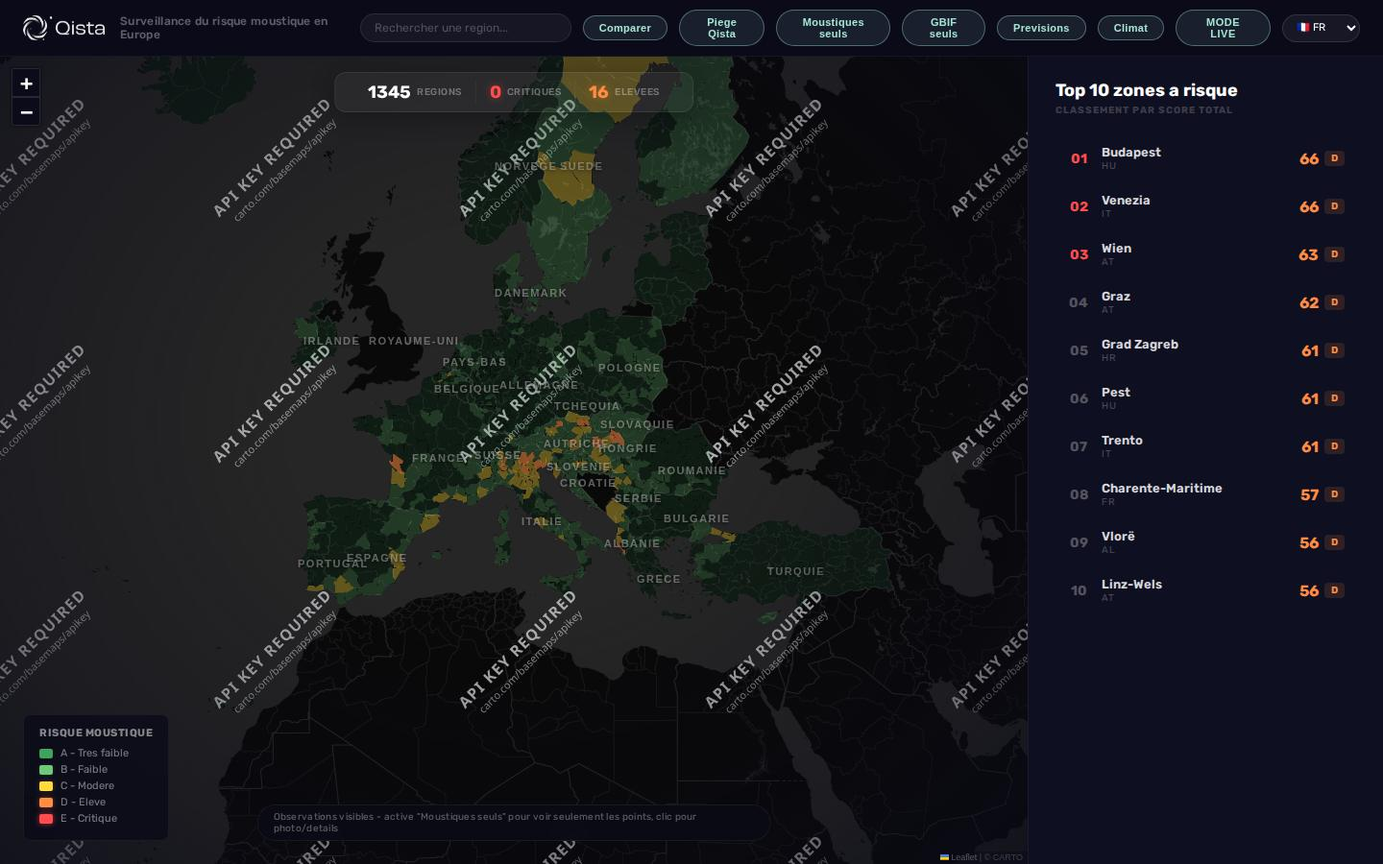
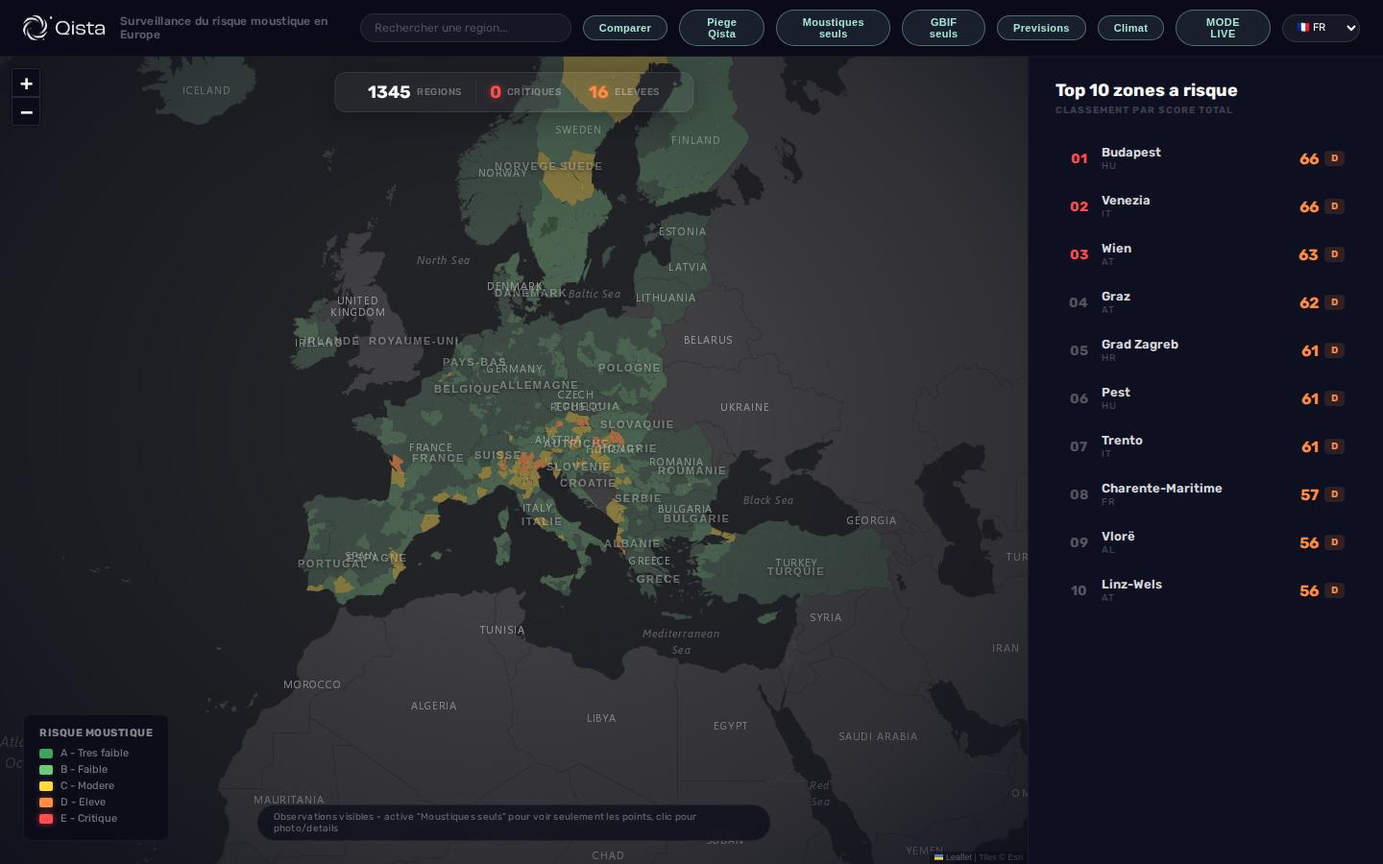
Drop availability line and 'interview' clause; clean Qista screenshot
- Remove the hero "available for work / seeking apprenticeship" line
  (element + copy, all four languages)
- CMA CGM cards (10, 11): trim the "happy to walk through it in an
  interview" tail — just "Details are confidential."
- Swap the Qista card screenshot for a clean one (keyless Esri dark
  basemap, no CARTO watermark)

diff --git a/site/src/i18n.tsx b/site/src/i18n.tsx
@@ -2,13 +2,13 @@
 import { createContext, useContext, useEffect, useState, type ReactNode } from "react";
 
 export type Language = "en" | "it" | "fr" | "es";
-type Copy = { nav: string[]; role: string; intro: string; availability: string; contactMe: string; work: string; selected: string; live: string; code: string; aboutLabel: string; about: string; contactLabel: string; letsTalk: string; blurbs: string[] };
+type Copy = { nav: string[]; role: string; intro: string; contactMe: string; work: string; selected: string; live: string; code: string; aboutLabel: string; about: string; contactLabel: string; letsTalk: string; blurbs: string[] };
 
 const translations: Record<Language, Copy> = {
-  en: { nav: ["Work", "About", "Contact"], role: "Software & Full-Stack Developer", intro: "Software developer at École 42 Marseille — solid in C/C++, Python and full-stack web, with project work in applied AI, optimisation and cybersecurity.", availability: "Seeking an apprenticeship or internship in software development from November 2026", contactMe: "Contact me", work: "Work", selected: "2025 — selected", live: "Live", code: "Code", aboutLabel: "/ about", about: "Software developer training at École 42 Marseille, with solid foundations in C/C++, Python and full-stack development. I’ve worked on concrete projects across applied AI, optimisation and cybersecurity — and I like to stay close to the system, from the interface down to the container. Autonomous and rigorous, at ease in an international team.", contactLabel: "/ contact", letsTalk: "Let’s talk", blurbs: ["A fully containerised infrastructure built from scratch for École 42: NGINX with TLS, WordPress and MariaDB in separate images, orchestrated with Docker Compose and hand-written Dockerfiles. Source stays private under École 42’s policy — I can walk through the architecture.", "École 42 systems and algorithms projects — Libft (a C standard-library reimplementation), Push_swap (sorting with a minimal instruction set), plus Python work on multithreading, RAG and constrained decoding. Source stays private under École 42’s policy.", "Heat-aware pedestrian routing for Marseille — a 3D point-cloud model that finds the coolest walking path on a hot day.", "A LangGraph pipeline that turns a topic into a validated product idea: web-search the real pains, draft an idea, sharpen it into one falsifiable claim, test it on a simulated customer panel, loop up to 3× — then pause at a human gate to build, refine or abandon. Not a website: run it locally with make install then make run (needs uv and an NVIDIA API key in .env — see the README).", "Upload a portfolio spreadsheet and get a full risk-and-allocation breakdown plus a polished Excel report.", "The arcade classic written in Python, compiled to WebAssembly and running in the browser at native speed — no server, no install.", "An earlier take on this site: a navigable galaxy where each star system is a project, built with React Three Fiber.", "The pipeline behind these projects: a git push builds a Docker image and Traefik serves it on its own HTTPS subdomain.", "Solutions from SANS capture-the-flag events — reversing, pwn, web and crypto — collected as sanitised notes.", "Client project with CMA CGM and Mistral AI (hackathon). Details are confidential — happy to walk through it in an interview.", "Client project with CMA CGM (graph-theory workshop). Details are confidential — happy to walk through it in an interview.", "A Europe-wide mosquito-risk surveillance map, built for Qista (a mosquito-trap company) at a ZEBOX hackathon. Three Dockerised services — a Leaflet map UI, an Express gateway and a FastAPI engine — grade ~1,300 regions A–E from weather, seasonality and species-observation data (Open-Meteo, GBIF, iNaturalist), with a live top-10 ranking."] },
-  it: { nav: ["Progetti", "Chi sono", "Contatti"], role: "Sviluppatore Software & Full-Stack", intro: "Sviluppatore software alla École 42 di Marsiglia — solide basi in C/C++, Python e web full-stack, con progetti su IA applicata, ottimizzazione e cybersecurity.", availability: "Cerco un’alternanza o uno stage in sviluppo software da novembre 2026", contactMe: "Contattami", work: "Progetti", selected: "2025 — selezione", live: "Online", code: "Codice", aboutLabel: "/ chi sono", about: "Sviluppatore software in formazione alla École 42 di Marsiglia, con solide basi in C/C++, Python e sviluppo full-stack. Ho lavorato su progetti concreti tra IA applicata, ottimizzazione e cybersecurity — e mi piace restare vicino al sistema, dall’interfaccia fino al container. Autonomo e rigoroso, a mio agio in un team internazionale.", contactLabel: "/ contatti", letsTalk: "Parliamone", blurbs: ["Un’infrastruttura interamente containerizzata costruita da zero per la École 42: NGINX con TLS, WordPress e MariaDB in immagini separate, orchestrate con Docker Compose e Dockerfile scritti a mano. Il codice resta privato per policy della École 42 — posso spiegare l’architettura.", "Progetti di sistemi e algoritmi della École 42 — Libft (reimplementazione della libreria standard C), Push_swap (ordinamento con un set minimo di istruzioni), più lavoro in Python su multithreading, RAG e constrained decoding. Il codice resta privato per policy della École 42.", "Percorsi pedonali sensibili al calore per Marsiglia — un modello 3D della città che individua il tragitto più fresco nelle giornate calde.", "Una pipeline LangGraph che trasforma un tema in un’idea di prodotto validata: cerca sul web i problemi reali, abbozza un’idea, la sintetizza in un’unica affermazione falsificabile, la testa su un panel di clienti simulato e itera fino a 3 volte — poi si ferma a un gate umano per decidere: costruire, rifinire o abbandonare. Non è un sito: si esegue in locale con make install e poi make run (servono uv e una API key NVIDIA in .env — vedi il README).", "Carica il foglio di calcolo di un portafoglio e ottieni un’analisi completa di rischio e allocazione con un report Excel professionale.", "Il classico arcade scritto in Python, compilato in WebAssembly e utilizzabile nel browser a velocità nativa — senza server né installazione.", "Una precedente versione di questo sito: una galassia navigabile in cui ogni sistema stellare rappresenta un progetto.", "La pipeline alla base di questi progetti: un push Git crea un’immagine Docker e Traefik la pubblica su un sottodominio HTTPS dedicato.", "Soluzioni delle capture-the-flag SANS — reversing, pwn, web e crittografia — raccolte in appunti ripuliti e condivisibili.", "Progetto per cliente con CMA CGM e Mistral AI (hackathon). I dettagli sono riservati — volentieri ne parlo in un colloquio.", "Progetto per cliente con CMA CGM (workshop di teoria dei grafi). I dettagli sono riservati — volentieri ne parlo in un colloquio.", "Una mappa di sorveglianza del rischio zanzare su scala europea, realizzata per Qista (azienda di trappole per zanzare) a un hackathon ZEBOX. Tre servizi in Docker — UI mappa Leaflet, gateway Express e motore FastAPI — assegnano a ~1.300 regioni una classe A–E da meteo, stagionalità e dati di osservazione delle specie (Open-Meteo, GBIF, iNaturalist), con una classifica top-10 in tempo reale."] },
-  fr: { nav: ["Projets", "À propos", "Contact"], role: "Développeur Logiciel & Full-Stack", intro: "Développeur en formation à l’École 42 Marseille — bases solides en C/C++, Python et web full-stack, avec des projets en IA appliquée, optimisation et cybersécurité.", availability: "Recherche une alternance ou un stage en développement logiciel à partir de novembre 2026", contactMe: "Me contacter", work: "Projets", selected: "2025 — sélection", live: "En ligne", code: "Code", aboutLabel: "/ à propos", about: "Développeur en formation à l’École 42 Marseille, avec de solides bases en C/C++, Python et développement full-stack. J’ai mené des projets concrets en IA appliquée, optimisation et cybersécurité — et j’aime rester proche du système, de l’interface au conteneur. Autonome et rigoureux, à l’aise en équipe internationale.", contactLabel: "/ contact", letsTalk: "Parlons-en", blurbs: ["Une infrastructure entièrement conteneurisée construite de zéro pour l’École 42 : NGINX avec TLS, WordPress et MariaDB dans des images séparées, orchestrées avec Docker Compose et des Dockerfiles écrits à la main. Le code reste privé selon la politique de l’École 42 — je peux détailler l’architecture.", "Projets systèmes et algorithmes de l’École 42 — Libft (réimplémentation de la bibliothèque standard C), Push_swap (tri avec un jeu d’instructions minimal), ainsi qu’un travail en Python sur le multithreading, le RAG et le constrained decoding. Le code reste privé selon la politique de l’École 42.", "Itinéraires piétons adaptés à la chaleur à Marseille — un modèle 3D de la ville qui trouve le trajet le plus frais lors des journées chaudes.", "Un pipeline LangGraph qui transforme un thème en idée de produit validée : recherche web des vrais problèmes, rédaction d’une idée, formulation en une seule affirmation falsifiable, test sur un panel de clients simulé, boucle jusqu’à 3 fois — puis pause à un gate humain pour décider : construire, affiner ou abandonner. Ce n’est pas un site : il s’exécute en local avec make install puis make run (nécessite uv et une clé API NVIDIA dans .env — voir le README).", "Importez un portefeuille et obtenez une analyse complète du risque et de l’allocation, accompagnée d’un rapport Excel professionnel.", "Le classique de l’arcade écrit en Python, compilé en WebAssembly et exécuté dans le navigateur — sans serveur ni installation.", "Une version antérieure de ce site : une galaxie navigable où chaque système stellaire représente un projet.", "La pipeline derrière ces projets : un push Git construit une image Docker que Traefik publie sur son propre sous-domaine HTTPS.", "Solutions des capture-the-flag SANS — reverse engineering, pwn, web et cryptographie — réunies sous forme de notes épurées.", "Projet client avec CMA CGM et Mistral AI (hackathon). Les détails sont confidentiels — je peux en parler lors d’un entretien.", "Projet client avec CMA CGM (atelier de théorie des graphes). Les détails sont confidentiels — je peux en parler lors d’un entretien.", "Une carte de surveillance du risque moustiques à l’échelle européenne, réalisée pour Qista (fabricant de pièges à moustiques) lors d’un hackathon ZEBOX. Trois services Docker — UI carte Leaflet, passerelle Express et moteur FastAPI — classent ~1 300 régions de A à E à partir de la météo, de la saisonnalité et de données d’observation des espèces (Open-Meteo, GBIF, iNaturalist), avec un classement top-10 en direct."] },
-  es: { nav: ["Proyectos", "Sobre mí", "Contacto"], role: "Desarrollador de Software & Full-Stack", intro: "Desarrollador en formación en la École 42 Marsella — base sólida en C/C++, Python y web full-stack, con proyectos de IA aplicada, optimización y ciberseguridad.", availability: "Busco un contrato en alternancia o unas prácticas en desarrollo de software a partir de noviembre de 2026", contactMe: "Contáctame", work: "Proyectos", selected: "2025 — selección", live: "Ver online", code: "Código", aboutLabel: "/ sobre mí", about: "Desarrollador de software en formación en la École 42 Marsella, con bases sólidas en C/C++, Python y desarrollo full-stack. He trabajado en proyectos concretos de IA aplicada, optimización y ciberseguridad — y me gusta mantenerme cerca del sistema, desde la interfaz hasta el contenedor. Autónomo y riguroso, cómodo en un equipo internacional.", contactLabel: "/ contacto", letsTalk: "Hablemos", blurbs: ["Una infraestructura totalmente contenedizada creada desde cero para la École 42: NGINX con TLS, WordPress y MariaDB en imágenes separadas, orquestadas con Docker Compose y Dockerfiles propios. El código es privado por la política de la École 42 — puedo explicar la arquitectura.", "Proyectos de sistemas y algoritmos de la École 42 — Libft (reimplementación de la biblioteca estándar de C), Push_swap (ordenación con un conjunto mínimo de instrucciones), además de trabajo en Python sobre multithreading, RAG y constrained decoding. El código es privado por la política de la École 42.", "Rutas peatonales adaptadas al calor en Marsella — un modelo 3D de la ciudad que encuentra el trayecto más fresco en días calurosos.", "Un pipeline de LangGraph que convierte un tema en una idea de producto validada: busca en la web los problemas reales, esboza una idea, la condensa en una única afirmación falsable, la prueba con un panel de clientes simulado e itera hasta 3 veces — luego se detiene en un gate humano para decidir: construir, refinar o abandonar. No es un sitio web: se ejecuta en local con make install y luego make run (necesita uv y una clave API de NVIDIA en .env — ver el README).", "Sube una cartera y obtén un análisis completo de riesgo y asignación, junto con un informe profesional en Excel.", "El clásico arcade escrito en Python, compilado a WebAssembly y ejecutado en el navegador — sin servidor ni instalación.", "Una versión anterior de este sitio: una galaxia navegable donde cada sistema estelar representa un proyecto.", "El pipeline detrás de estos proyectos: un push de Git crea una imagen Docker y Traefik la publica en su propio subdominio HTTPS.", "Soluciones de los capture-the-flag de SANS — reversing, pwn, web y criptografía — reunidas como notas depuradas.", "Proyecto de cliente con CMA CGM y Mistral AI (hackathon). Los detalles son confidenciales — encantado de explicarlo en una entrevista.", "Proyecto de cliente con CMA CGM (taller de teoría de grafos). Los detalles son confidenciales — encantado de explicarlo en una entrevista.", "Un mapa de vigilancia del riesgo de mosquitos a escala europea, creado para Qista (fabricante de trampas para mosquitos) en un hackathon ZEBOX. Tres servicios Docker — UI de mapa Leaflet, pasarela Express y motor FastAPI — clasifican ~1.300 regiones de la A a la E a partir del tiempo, la estacionalidad y datos de observación de especies (Open-Meteo, GBIF, iNaturalist), con un ranking top-10 en directo."] },
+  en: { nav: ["Work", "About", "Contact"], role: "Software & Full-Stack Developer", intro: "Software developer at École 42 Marseille — solid in C/C++, Python and full-stack web, with project work in applied AI, optimisation and cybersecurity.", contactMe: "Contact me", work: "Work", selected: "2025 — selected", live: "Live", code: "Code", aboutLabel: "/ about", about: "Software developer training at École 42 Marseille, with solid foundations in C/C++, Python and full-stack development. I’ve worked on concrete projects across applied AI, optimisation and cybersecurity — and I like to stay close to the system, from the interface down to the container. Autonomous and rigorous, at ease in an international team.", contactLabel: "/ contact", letsTalk: "Let’s talk", blurbs: ["A fully containerised infrastructure built from scratch for École 42: NGINX with TLS, WordPress and MariaDB in separate images, orchestrated with Docker Compose and hand-written Dockerfiles. Source stays private under École 42’s policy — I can walk through the architecture.", "École 42 systems and algorithms projects — Libft (a C standard-library reimplementation), Push_swap (sorting with a minimal instruction set), plus Python work on multithreading, RAG and constrained decoding. Source stays private under École 42’s policy.", "Heat-aware pedestrian routing for Marseille — a 3D point-cloud model that finds the coolest walking path on a hot day.", "A LangGraph pipeline that turns a topic into a validated product idea: web-search the real pains, draft an idea, sharpen it into one falsifiable claim, test it on a simulated customer panel, loop up to 3× — then pause at a human gate to build, refine or abandon. Not a website: run it locally with make install then make run (needs uv and an NVIDIA API key in .env — see the README).", "Upload a portfolio spreadsheet and get a full risk-and-allocation breakdown plus a polished Excel report.", "The arcade classic written in Python, compiled to WebAssembly and running in the browser at native speed — no server, no install.", "An earlier take on this site: a navigable galaxy where each star system is a project, built with React Three Fiber.", "The pipeline behind these projects: a git push builds a Docker image and Traefik serves it on its own HTTPS subdomain.", "Solutions from SANS capture-the-flag events — reversing, pwn, web and crypto — collected as sanitised notes.", "Client project with CMA CGM and Mistral AI (hackathon). Details are confidential.", "Client project with CMA CGM (graph-theory workshop). Details are confidential.", "A Europe-wide mosquito-risk surveillance map, built for Qista (a mosquito-trap company) at a ZEBOX hackathon. Three Dockerised services — a Leaflet map UI, an Express gateway and a FastAPI engine — grade ~1,300 regions A–E from weather, seasonality and species-observation data (Open-Meteo, GBIF, iNaturalist), with a live top-10 ranking."] },
+  it: { nav: ["Progetti", "Chi sono", "Contatti"], role: "Sviluppatore Software & Full-Stack", intro: "Sviluppatore software alla École 42 di Marsiglia — solide basi in C/C++, Python e web full-stack, con progetti su IA applicata, ottimizzazione e cybersecurity.", contactMe: "Contattami", work: "Progetti", selected: "2025 — selezione", live: "Online", code: "Codice", aboutLabel: "/ chi sono", about: "Sviluppatore software in formazione alla École 42 di Marsiglia, con solide basi in C/C++, Python e sviluppo full-stack. Ho lavorato su progetti concreti tra IA applicata, ottimizzazione e cybersecurity — e mi piace restare vicino al sistema, dall’interfaccia fino al container. Autonomo e rigoroso, a mio agio in un team internazionale.", contactLabel: "/ contatti", letsTalk: "Parliamone", blurbs: ["Un’infrastruttura interamente containerizzata costruita da zero per la École 42: NGINX con TLS, WordPress e MariaDB in immagini separate, orchestrate con Docker Compose e Dockerfile scritti a mano. Il codice resta privato per policy della École 42 — posso spiegare l’architettura.", "Progetti di sistemi e algoritmi della École 42 — Libft (reimplementazione della libreria standard C), Push_swap (ordinamento con un set minimo di istruzioni), più lavoro in Python su multithreading, RAG e constrained decoding. Il codice resta privato per policy della École 42.", "Percorsi pedonali sensibili al calore per Marsiglia — un modello 3D della città che individua il tragitto più fresco nelle giornate calde.", "Una pipeline LangGraph che trasforma un tema in un’idea di prodotto validata: cerca sul web i problemi reali, abbozza un’idea, la sintetizza in un’unica affermazione falsificabile, la testa su un panel di clienti simulato e itera fino a 3 volte — poi si ferma a un gate umano per decidere: costruire, rifinire o abbandonare. Non è un sito: si esegue in locale con make install e poi make run (servono uv e una API key NVIDIA in .env — vedi il README).", "Carica il foglio di calcolo di un portafoglio e ottieni un’analisi completa di rischio e allocazione con un report Excel professionale.", "Il classico arcade scritto in Python, compilato in WebAssembly e utilizzabile nel browser a velocità nativa — senza server né installazione.", "Una precedente versione di questo sito: una galassia navigabile in cui ogni sistema stellare rappresenta un progetto.", "La pipeline alla base di questi progetti: un push Git crea un’immagine Docker e Traefik la pubblica su un sottodominio HTTPS dedicato.", "Soluzioni delle capture-the-flag SANS — reversing, pwn, web e crittografia — raccolte in appunti ripuliti e condivisibili.", "Progetto per cliente con CMA CGM e Mistral AI (hackathon). I dettagli sono riservati.", "Progetto per cliente con CMA CGM (workshop di teoria dei grafi). I dettagli sono riservati.", "Una mappa di sorveglianza del rischio zanzare su scala europea, realizzata per Qista (azienda di trappole per zanzare) a un hackathon ZEBOX. Tre servizi in Docker — UI mappa Leaflet, gateway Express e motore FastAPI — assegnano a ~1.300 regioni una classe A–E da meteo, stagionalità e dati di osservazione delle specie (Open-Meteo, GBIF, iNaturalist), con una classifica top-10 in tempo reale."] },
+  fr: { nav: ["Projets", "À propos", "Contact"], role: "Développeur Logiciel & Full-Stack", intro: "Développeur en formation à l’École 42 Marseille — bases solides en C/C++, Python et web full-stack, avec des projets en IA appliquée, optimisation et cybersécurité.", contactMe: "Me contacter", work: "Projets", selected: "2025 — sélection", live: "En ligne", code: "Code", aboutLabel: "/ à propos", about: "Développeur en formation à l’École 42 Marseille, avec de solides bases en C/C++, Python et développement full-stack. J’ai mené des projets concrets en IA appliquée, optimisation et cybersécurité — et j’aime rester proche du système, de l’interface au conteneur. Autonome et rigoureux, à l’aise en équipe internationale.", contactLabel: "/ contact", letsTalk: "Parlons-en", blurbs: ["Une infrastructure entièrement conteneurisée construite de zéro pour l’École 42 : NGINX avec TLS, WordPress et MariaDB dans des images séparées, orchestrées avec Docker Compose et des Dockerfiles écrits à la main. Le code reste privé selon la politique de l’École 42 — je peux détailler l’architecture.", "Projets systèmes et algorithmes de l’École 42 — Libft (réimplémentation de la bibliothèque standard C), Push_swap (tri avec un jeu d’instructions minimal), ainsi qu’un travail en Python sur le multithreading, le RAG et le constrained decoding. Le code reste privé selon la politique de l’École 42.", "Itinéraires piétons adaptés à la chaleur à Marseille — un modèle 3D de la ville qui trouve le trajet le plus frais lors des journées chaudes.", "Un pipeline LangGraph qui transforme un thème en idée de produit validée : recherche web des vrais problèmes, rédaction d’une idée, formulation en une seule affirmation falsifiable, test sur un panel de clients simulé, boucle jusqu’à 3 fois — puis pause à un gate humain pour décider : construire, affiner ou abandonner. Ce n’est pas un site : il s’exécute en local avec make install puis make run (nécessite uv et une clé API NVIDIA dans .env — voir le README).", "Importez un portefeuille et obtenez une analyse complète du risque et de l’allocation, accompagnée d’un rapport Excel professionnel.", "Le classique de l’arcade écrit en Python, compilé en WebAssembly et exécuté dans le navigateur — sans serveur ni installation.", "Une version antérieure de ce site : une galaxie navigable où chaque système stellaire représente un projet.", "La pipeline derrière ces projets : un push Git construit une image Docker que Traefik publie sur son propre sous-domaine HTTPS.", "Solutions des capture-the-flag SANS — reverse engineering, pwn, web et cryptographie — réunies sous forme de notes épurées.", "Projet client avec CMA CGM et Mistral AI (hackathon). Les détails sont confidentiels.", "Projet client avec CMA CGM (atelier de théorie des graphes). Les détails sont confidentiels.", "Une carte de surveillance du risque moustiques à l’échelle européenne, réalisée pour Qista (fabricant de pièges à moustiques) lors d’un hackathon ZEBOX. Trois services Docker — UI carte Leaflet, passerelle Express et moteur FastAPI — classent ~1 300 régions de A à E à partir de la météo, de la saisonnalité et de données d’observation des espèces (Open-Meteo, GBIF, iNaturalist), avec un classement top-10 en direct."] },
+  es: { nav: ["Proyectos", "Sobre mí", "Contacto"], role: "Desarrollador de Software & Full-Stack", intro: "Desarrollador en formación en la École 42 Marsella — base sólida en C/C++, Python y web full-stack, con proyectos de IA aplicada, optimización y ciberseguridad.", contactMe: "Contáctame", work: "Proyectos", selected: "2025 — selección", live: "Ver online", code: "Código", aboutLabel: "/ sobre mí", about: "Desarrollador de software en formación en la École 42 Marsella, con bases sólidas en C/C++, Python y desarrollo full-stack. He trabajado en proyectos concretos de IA aplicada, optimización y ciberseguridad — y me gusta mantenerme cerca del sistema, desde la interfaz hasta el contenedor. Autónomo y riguroso, cómodo en un equipo internacional.", contactLabel: "/ contacto", letsTalk: "Hablemos", blurbs: ["Una infraestructura totalmente contenedizada creada desde cero para la École 42: NGINX con TLS, WordPress y MariaDB en imágenes separadas, orquestadas con Docker Compose y Dockerfiles propios. El código es privado por la política de la École 42 — puedo explicar la arquitectura.", "Proyectos de sistemas y algoritmos de la École 42 — Libft (reimplementación de la biblioteca estándar de C), Push_swap (ordenación con un conjunto mínimo de instrucciones), además de trabajo en Python sobre multithreading, RAG y constrained decoding. El código es privado por la política de la École 42.", "Rutas peatonales adaptadas al calor en Marsella — un modelo 3D de la ciudad que encuentra el trayecto más fresco en días calurosos.", "Un pipeline de LangGraph que convierte un tema en una idea de producto validada: busca en la web los problemas reales, esboza una idea, la condensa en una única afirmación falsable, la prueba con un panel de clientes simulado e itera hasta 3 veces — luego se detiene en un gate humano para decidir: construir, refinar o abandonar. No es un sitio web: se ejecuta en local con make install y luego make run (necesita uv y una clave API de NVIDIA en .env — ver el README).", "Sube una cartera y obtén un análisis completo de riesgo y asignación, junto con un informe profesional en Excel.", "El clásico arcade escrito en Python, compilado a WebAssembly y ejecutado en el navegador — sin servidor ni instalación.", "Una versión anterior de este sitio: una galaxia navegable donde cada sistema estelar representa un proyecto.", "El pipeline detrás de estos proyectos: un push de Git crea una imagen Docker y Traefik la publica en su propio subdominio HTTPS.", "Soluciones de los capture-the-flag de SANS — reversing, pwn, web y criptografía — reunidas como notas depuradas.", "Proyecto de cliente con CMA CGM y Mistral AI (hackathon). Los detalles son confidenciales.", "Proyecto de cliente con CMA CGM (taller de teoría de grafos). Los detalles son confidenciales.", "Un mapa de vigilancia del riesgo de mosquitos a escala europea, creado para Qista (fabricante de trampas para mosquitos) en un hackathon ZEBOX. Tres servicios Docker — UI de mapa Leaflet, pasarela Express y motor FastAPI — clasifican ~1.300 regiones de la A a la E a partir del tiempo, la estacionalidad y datos de observación de especies (Open-Meteo, GBIF, iNaturalist), con un ranking top-10 en directo."] },
 };
 
 function detectLanguage(): Language {

diff --git a/site/src/content/data.ts b/site/src/content/data.ts
@@ -125,14 +125,14 @@ export const projects: Project[] = [
   {
     name: "Third-Party Risk Analysis (AI)",
     blurb:
-      "Client project with CMA CGM and Mistral AI (hackathon). Details are confidential — happy to walk through it in an interview.",
+      "Client project with CMA CGM and Mistral AI (hackathon). Details are confidential.",
     tech: ["Mistral workflows", "React", "LLM"],
     context: "CMA CGM × Mistral AI",
   },
   {
     name: "Maritime Route Optimisation",
     blurb:
-      "Client project with CMA CGM (graph-theory workshop). Details are confidential — happy to walk through it in an interview.",
+      "Client project with CMA CGM (graph-theory workshop). Details are confidential.",
     tech: ["Python", "Graph theory"],
     context: "CMA CGM",
   },

diff --git a/site/src/sections/HeroSection.tsx b/site/src/sections/HeroSection.tsx
@@ -73,10 +73,6 @@ export function HeroSection() {
           </FadeIn>
           <FadeIn delay={0.44} y={20}><ContactButton /></FadeIn>
         </div>
-        <FadeIn delay={0.56} y={16} className="mt-10 flex items-center gap-2.5">
-          <span className="h-1.5 w-1.5 rounded-full bg-primary" />
-          <span className="font-mono text-[11px] tracking-wide text-muted">{copy.availability}</span>
-        </FadeIn>
       </div>
     </section>
   );
